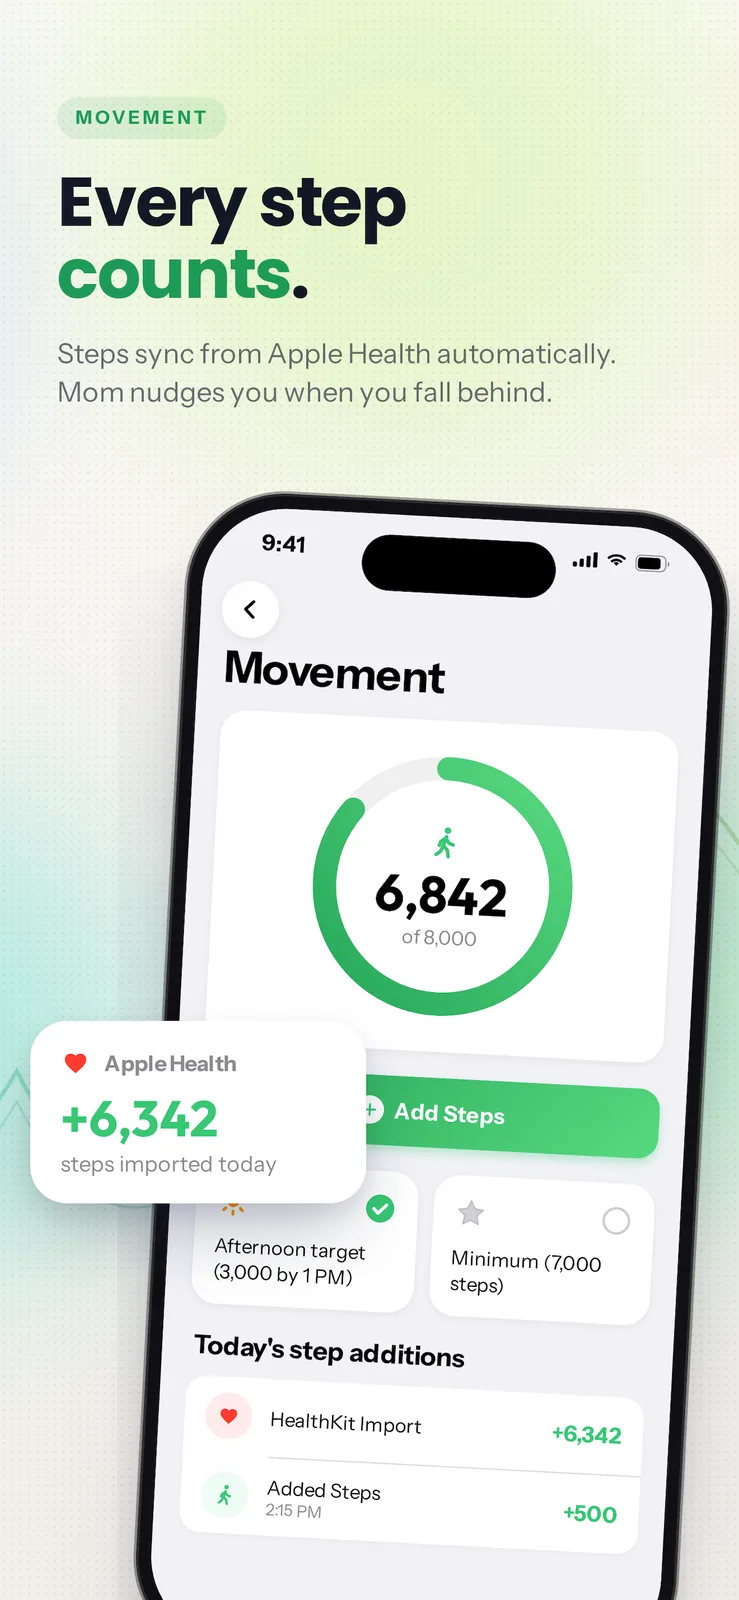
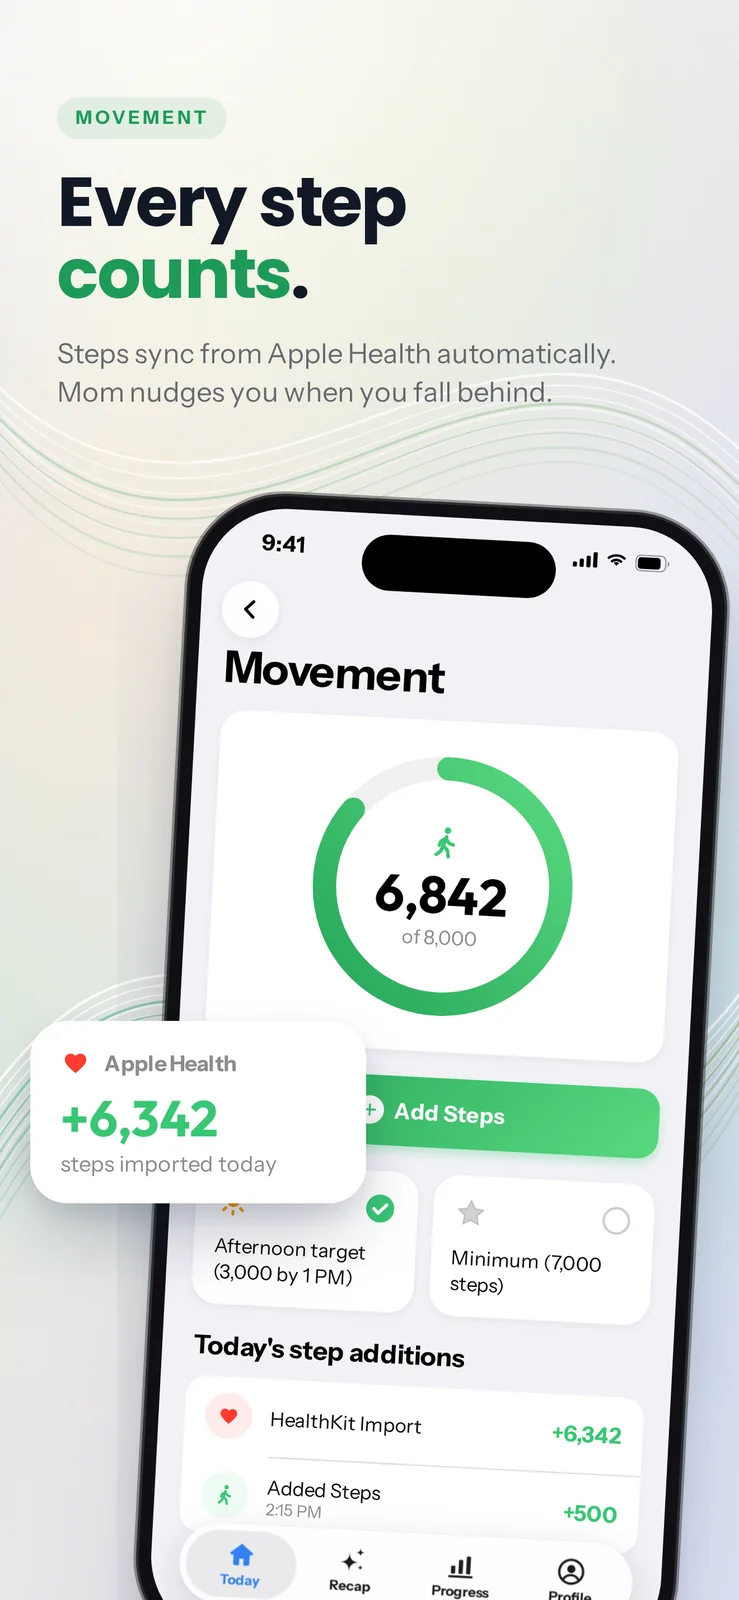
Office Mom page: redesigned app screenshots

diff --git a/index.html b/index.html
@@ -66,7 +66,7 @@ intro: true
         </div>
         <p class="app-platform">iPhone · Arcade game</p>
         <h3>Too Much Food</h3>
-        <p>Grab the food, dodge the poo. An endless one-thumb arcade game with four worlds, daily challenges, ghost duels and a weekly league.</p>
+        <p>Grab the food, dodge the poo. An endless one-thumb arcade game with four worlds, ghost duels, a weekly league — and, new in 3.0, 30 mix-and-match outfits and trails for Frank.</p>
         <div class="app-card-actions">
           {% include app-store-badge.html url=site.toomuchfood_url platform="ios" size="sm" %}
           <a class="text-link" href="{{ '/toomuchfood/' | relative_url }}">Details <span aria-hidden="true">→</span></a>
@@ -80,7 +80,7 @@ intro: true
         </div>
         <p class="app-platform">iPhone &amp; Mac · Health</p>
         <h3>Office Mom</h3>
-        <p>Water, steps and a healthy 20-8-2 sit/stand/move rhythm — with Lock Screen &amp; StandBy widgets, Siri shortcuts and a Mac menu-bar companion. Zero data collected.</p>
+        <p>Water, steps and a healthy 20-8-2 sit/stand/move rhythm — freshly redesigned, with Lock Screen &amp; StandBy widgets, Siri shortcuts and a Mac menu-bar companion. Zero data collected.</p>
         <div class="app-card-actions">
           {% include app-store-badge.html url=site.office_mom_ios_url platform="ios" size="sm" %}
           <a class="text-link" href="{{ '/office-mom/' | relative_url }}">Details <span aria-hidden="true">→</span></a>

diff --git a/office-mom.md b/office-mom.md
@@ -21,6 +21,7 @@ image: /assets/images/og/office-mom.jpg
         {% include app-store-badge.html url=site.office_mom_ios_url platform="ios" size="lg" %}
         <a href="#screenshots" class="btn btn-outline btn-large">See the app</a>
       </div>
+      <p class="hero-note"><strong>Freshly redesigned:</strong> a new Today screen, tabs and illustrations — <a href="#screenshots">take a look</a>.</p>
       <p class="hero-note">Free · Zero data collection · English, German, Spanish &amp; French</p>
     </div>
     <div class="hero-visual reveal">
@@ -47,6 +48,12 @@ image: /assets/images/og/office-mom.jpg
     <section class="feature-section reveal">
       <h2>Features</h2>
       <div class="features-grid">
+        <div class="feature-card">
+          <span class="feature-new">Redesigned</span>
+          <div class="feature-icon">🏠</div>
+          <h3>A calmer Today screen</h3>
+          <p>A swipeable card from Mom up top, water, steps, stand-up and streak tiles at a glance, and one “+” button to log anything. Today, Recap, Progress and Profile are now simple tabs.</p>
+        </div>
         <div class="feature-card">
           <div class="feature-icon">💧</div>
           <h3>Smart hydration</h3>
@@ -98,7 +105,7 @@ image: /assets/images/og/office-mom.jpg
         <div class="feature-card">
           <div class="feature-icon">✨</div>
           <h3>Weekly &amp; monthly recaps</h3>
-          <p>A story-ready card that sums up your water, steps and stand-ups — now with a QR code so friends can join in one tap.</p>
+          <p>Recaps now have their own tab: goal days, totals and daily averages, plus a story-ready card with a QR code so colleagues can join in one tap.</p>
         </div>
       </div>
     </section>
@@ -115,13 +122,13 @@ image: /assets/images/og/office-mom.jpg
 
           <div class="carousel-track" aria-live="polite">
             <div class="carousel-slide is-active" data-caption="Healthy habits for your desk job">
-              <img src="{{ '/assets/images/officemom/01-hero.webp' | relative_url }}" width="739" height="1600" alt="Office Mom dashboard with a running sitting timer, water at 69 percent of 2.40 litres, movement and stand-up rings, a 12-day streak and a hydration reminder from Mom.">
+              <img src="{{ '/assets/images/officemom/01-hero.webp' | relative_url }}" width="739" height="1600" alt="The redesigned Today tab: a “Mom says” card with a one-tap Log 250 ml button, tiles for water (1.65 of 2.40 litres), movement (6,842 steps), stand-up and a 12-day streak, a hydration reminder from Mom and the new tab bar.">
             </div>
             <div class="carousel-slide" data-caption="Drink enough. Without thinking.">
-              <img src="{{ '/assets/images/officemom/02-water.webp' | relative_url }}" width="739" height="1600" alt="Water screen with a personal goal, pace target and one-tap logging, next to a Siri request: “Log a glass of water in Office Mom”." loading="lazy">
+              <img src="{{ '/assets/images/officemom/02-water.webp' | relative_url }}" width="739" height="1600" alt="Water screen at 69 percent (1.65 of 2.40 litres) with quick-add buttons and today's logs, next to a Siri request: “Log a glass of water in Office Mom”." loading="lazy">
             </div>
             <div class="carousel-slide" data-caption="Sit 20. Stand 8. Move 2.">
-              <img src="{{ '/assets/images/officemom/03-standup.webp' | relative_url }}" width="739" height="1600" alt="Stand-up timer counting down 12:24 minutes of sitting in the 20-8-2 routine, with a Dynamic Island countdown and “Next: Standing”." loading="lazy">
+              <img src="{{ '/assets/images/officemom/03-standup.webp' | relative_url }}" width="739" height="1600" alt="Stand-up screen counting down 12:24 minutes of sitting, with Next and Stop buttons, the 20-8-2, 50-10 and Micro-Break routines, a Dynamic Island countdown and “Next: Standing”." loading="lazy">
             </div>
             <div class="carousel-slide" data-caption="Caring, witty or strict">
               <img src="{{ '/assets/images/officemom/04-mom.webp' | relative_url }}" width="739" height="1600" alt="Three versions of the same reminder in Mom's caring, witty and strict voice." loading="lazy">
@@ -133,13 +140,13 @@ image: /assets/images/og/office-mom.jpg
               <img src="{{ '/assets/images/officemom/06-standby.webp' | relative_url }}" width="739" height="1600" alt="StandBy mode showing 1.7 litres of water with a +250 ml button, plus Home and Lock Screen water widgets." loading="lazy">
             </div>
             <div class="carousel-slide" data-caption="Every step counts">
-              <img src="{{ '/assets/images/officemom/07-movement.webp' | relative_url }}" width="739" height="1600" alt="Movement screen with daily step progress and 6,342 steps imported from Apple Health." loading="lazy">
+              <img src="{{ '/assets/images/officemom/07-movement.webp' | relative_url }}" width="739" height="1600" alt="Movement screen with 6,842 of 8,000 steps, an afternoon target, today's step additions and 6,342 steps imported from Apple Health." loading="lazy">
             </div>
             <div class="carousel-slide" data-caption="Streaks, levels &amp; 29 trophies">
-              <img src="{{ '/assets/images/officemom/08-trophies.webp' | relative_url }}" width="739" height="1600" alt="Trophy collection with an unlocked “On Fire” 7-day streak trophy, level 7 and a ready streak freeze." loading="lazy">
+              <img src="{{ '/assets/images/officemom/08-trophies.webp' | relative_url }}" width="739" height="1600" alt="Your Progress screen with 14 of 29 trophies collected, an unlocked “On Fire” 7-day streak trophy, level 7 and a ready streak freeze." loading="lazy">
             </div>
             <div class="carousel-slide" data-caption="Your week, wrapped">
-              <img src="{{ '/assets/images/officemom/09-recap.webp' | relative_url }}" width="739" height="1600" alt="Weekly recap card with a Share button, exported as a story-ready 9:16 image." loading="lazy">
+              <img src="{{ '/assets/images/officemom/09-recap.webp' | relative_url }}" width="739" height="1600" alt="The new Recap tab: this week at 5 of 7 goal days, with totals of 10.4 litres of water, 38,152 steps and 27 stand-ups, a Share recap button and a story-ready 9:16 image." loading="lazy">
             </div>
           </div>
 
